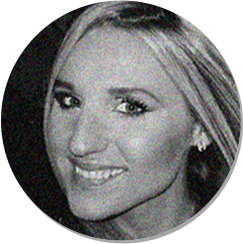
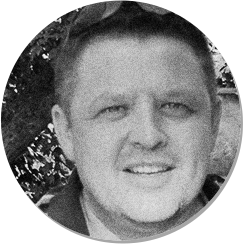
Fixes , New loader stuff, Brian testimonial added.

diff --git a/index.html b/index.html
@@ -344,9 +344,9 @@
                               </div>  
                             </div>
                             <div class="ch-text">
-                              <h3>Dr. Talia Lavie</h3>
-                              <h4><a href="#" class="track_event" data-ga-category="Marketing Website" data-ga-event="Testimonials Site Click" data-ga-label="Fanny May" data-ajax-track="1">www.fannymay.com</a></h4>
-                              <p>Otonomic was created in 2012 by Omri Allouche, who previously founded Zink, social marketing platform that uses unique technology to increase the word of mouth effect on social networks on social networks and Accessorize London.</p>
+                              <h3>Brian O'Callaghan</h3>
+                              <h4><a href="http://www.dublinacupunctureclinic.com/" class="track_event" data-ga-category="Marketing Website" data-ga-event="Testimonials Site Click" data-ga-label="Brian O'Callaghan" data-ajax-track="1">www.dublinacupunctureclinic.com</a></h4>
+                              <p>Otonomic offered me what I need at the time I needed it, a well designed, informative website that I update effortlessly wherever I travel.</p>
                             </div>
                           </div>
                         </div>
@@ -562,7 +562,7 @@
                         <div class="footer-link"><a href="pdfs/Otonomic_Privacy_Policy.pdf" target="_blank" class="track_event" data-ga-category="Marketing Website" data-ga-event="Footer" data-ga-label="PP" data-ajax-track="1">Privacy Policy</a></div>
                         <div class="footer-link"><a href="http://support.otonomic.com" target="_blank" class="track_event" data-ga-category="Marketing Website" data-ga-event="Footer" data-ga-label="FAQ" data-ajax-track="1">FAQ</a></div>
                       </div>
-                      <div class="powered-by">All right reserved to <img src="images/otonomic-logo.png" alt="otonomic logo"></div>
+                      <div class="powered-by">© 2014 <img src="images/otonomic-logo.png" alt="otonomic logo"></div>
                     </div>
                   </section>
               </div>
@@ -623,13 +623,14 @@
   <div class="masking">
        <div class="loading-page">
            <div class="loading-content">
-               <p>We're building <b>your new website</b> now.</p>
+               <p>We're building <strong>your new website</strong> now.</p>
                <p class="loading-counter-text">It will be ready in... <label id='loaderCounter'></label> seconds  </p>
                <span>So don't close this tab</span>
            </div>
            <div class="loading-image" >
-               <img src="images/oto-loading.gif"/>
+               <img src="images/loading/oto-loading.gif"/>
            </div>
+           <div class="fb-like" data-href="http://otonomic.com/" data-width="86" data-layout="button_count" data-action="like" data-show-faces="false" data-share="false"></div>
        </div>
    </div>
 </div>

diff --git a/js/otonomic/search_filterv1.0.2.js b/js/otonomic/search_filterv1.0.2.js
@@ -124,8 +124,8 @@ var redirect_url = '';
 
 $(document).ready(function($){
 
-    $(document).on('click','#how_do_i',function(e){
-        e.preventDefault();
+    $(document).on('click','#how_do_i',function(event){
+        event.preventDefault();
         var $this = $(this);
 
         if($this.hasClass('open')){
@@ -133,7 +133,7 @@ $(document).ready(function($){
         } else {
             openHowDoISteps();
         }
-        return false;
+        //return false;
     });
 
 });
@@ -258,6 +258,7 @@ function closeSearch(targetContainer){
         jQuery('.btn_go').tipsy("hide");
         $(".close-search").hide();
         closeHowDoISteps();
+        $('#main_search_box').focus();
 }
 
 function show_searching_message(){
@@ -301,10 +302,18 @@ function openHowDoISteps(){
 var loaderCounter;
 var interval;
 function counterLoader(counterElementId){
-            loaderCounter = 10;
+            loaderCounter = 8;
             document.getElementById(counterElementId).innerHTML = loaderCounter;
             interval = setInterval(function(){
-                if (loaderCounter <= 0){
+                if (loaderCounter <= 1){
+                    //fade in/out animation 
+                    $(".loading-content").animate({opacity:"0"}, 300,"swing", function() {
+                        $('.loading-content').html('<p>Your new website is <strong>ready</strong>!</p>');
+                        $('.loading-image>img').attr('src','images/loading/v.gif');
+                        $('.loading-page .loading-content p').css('margin','71px 0  34px 0');
+                        $(".loading-content").animate({opacity:"1"}, 300,"swing");
+                    });
+                    // start redirect
                     setTimeout(function(){
                         var ua    = navigator.userAgent.toLowerCase(),
                         isIE      = ua.indexOf('msie') !== -1,
@@ -316,8 +325,11 @@ function counterLoader(counterElementId){
                     }
                     // All other browsers
                     else { window.location.href = redirect_url; }
-                    },500);
+                    },1000);
+
                     clearInterval(interval);
+                    loaderCounter--;
+                    document.getElementById(counterElementId).innerHTML = loaderCounter;
                     return;
                 }
                 loaderCounter--;

diff --git a/js/main.js b/js/main.js
@@ -94,14 +94,26 @@
             });  
           }
 
-          $("#menu-toggle").click(function(e) {
-              e.preventDefault();
+          $("#menu-toggle").click(function(event) {
+              event.preventDefault();
               openCloseMenu();
           });
           $("section").click(function() {
+            //closeSearch('.search-wrapper');
             if ($("#menu-toggle").hasClass('active')) {
               closeMenu();
             }
+          });
+
+          // Close .t_box if click anywhere but the box
+          /*$('section').click(function(){
+              closeSearch('.search-wrapper');
+          });*/
+          
+          $(".search-wrapper").click(function(e) {
+              //e.stopPropagation(); // This is the preferred method.
+              //return false;        // This should not be used unless you do not want
+                                   // any click events registering inside the div
           });
           //<<<<<<<<<< Disable Features-Section Animations
           $('.section-features .feature img').addClass('active');
@@ -206,16 +218,4 @@
               $(this).addClass('mobile-header-placeholder');
             }
           });
-
-          // Close .t_box if click anywhere but the box
-          $('html').click(function(){
-              closeSearch('.search-wrapper');
-          });
-          
-          $(".search-wrapper").click(function(e) {
-              e.stopPropagation(); // This is the preferred method.
-              return false;        // This should not be used unless you do not want
-                                   // any click events registering inside the div
-          });
-          
       });

diff --git a/css/style.css b/css/style.css
@@ -2,7 +2,7 @@
 /* Google Fonts */
 @import url(http://fonts.googleapis.com/css?family=Changa+One);
 @import url(http://fonts.googleapis.com/css?family=Dosis:300,400,500,600,700);
-@import url(http://fonts.googleapis.com/css?family=Exo+2:800,900);
+@import url(http://fonts.googleapis.com/css?family=Exo+2:200,800,900);
 /* Type */
 body{ font-family: 'Dosis', sans-serif;}
 h1,h2,h3,h4,h5 { 
@@ -16,7 +16,9 @@ body{
 	padding-top: 70px;
 	background-color: #222;
 }
-
+b, strong {
+font-weight: 800;
+}
 /* Custom button
 -------------------------------------------------- */
 
@@ -373,7 +375,7 @@ section.features .row{
 .section-reviews-inner{}
 .section-reviews h1{
 	margin-top: 42px;
-	margin-bottom: 108px;
+	margin-bottom: 80px;
 	color: white;
 	font-size: 42px;
 	text-shadow: 2px 2px 0px rgba(0,0,0,0.25);
@@ -478,11 +480,13 @@ section.features .row{
 .ch-item .ch-text{
 	position: absolute;
 	top: 243px;
+	margin: 0 40px;
 }
 
-.ch-item .ch-text h3{ text-align: center;}
+.ch-item .ch-text h3{ text-align: left;}
 .ch-item .ch-text h4{ 
-	text-align: center;
+	text-align: left;
+	margin: 8px 0 10px;
 	opacity: 1; /*make visible  deafult = 0*/
 	-webkit-transition: all 0.4s ease;
 	-moz-transition: all 0.4s ease;
@@ -491,7 +495,6 @@ section.features .row{
 	transition: all 0.4s ease;
 }
 .ch-item .ch-text p{
-	margin: 0 40px; 
 	opacity: 1; /*make visible  deafult = 0*/
 	-webkit-transition: all 0.4s ease;
 	-moz-transition: all 0.4s ease;
@@ -501,7 +504,7 @@ section.features .row{
 }
 .ch-item .ch-text > h4 > a{
 	color:#000;
-	padding: 5px;
+	padding: 0;
 	text-decoration: none;
 }
 .ch-item .ch-text > h4 > a:hover{

diff --git a/css/loadingStyle.css b/css/loadingStyle.css
@@ -1,6 +1,8 @@
 .loading-box {
     display: none;
     opacity: 0;
+    font-family: 'Exo 2', sans-serif;
+    font-weight: 200;
 }
 
 .masking{
@@ -24,12 +26,12 @@
 
 .loading-page .loading-content p{
     color: #ffffff;
-    font-size: 36px;
+    font-size: 35px;
     margin: 10px 0px;
 }
 
 .loading-page .loading-content span{
-    font-size: 36px;
+    font-size: 35px;;
 }
 
 .loading-page .loading-content span{
@@ -39,7 +41,7 @@
 
 .loading-image{
     background:#000000;
-    opacity: 0.7;
+    opacity: 1;
     width: 450px;
     height: 220px;
     margin: 15px auto;

diff --git a/js/otonomic/otonomicv1.0.4.js b/js/otonomic/otonomicv1.0.4.js
@@ -3,8 +3,8 @@
     var nextpageURL = 'http://www.page2site.com/shared/facebook_fanpages.php';
     var debug_enabled = 0;
 
-     var connect_path = '/shared/';
- var reference_time = new Date().getTime();
+    var connect_path = '/shared/';
+    var reference_time = new Date().getTime();
     var user_facebook_id;
     var fanpage_permissions = 'manage_pages,email,offline_access';
     var personal_permissions = 'user_location,user_about_me,user_photos,user_events,user_videos';

diff --git a/css/searchResults.css b/css/searchResults.css
@@ -131,6 +131,9 @@
     display: none;
     color: #666161;
     font-size: 20px;
+    margin-top: -8px;
+    margin-right: -8px;
+    padding: 17px 20px 15px 22px;
 }
 .p2s_fanpages .close-search:hover{
     color: #f54500;
@@ -139,6 +142,7 @@
 .p2s_fanpages span.icon_clear{
     position: absolute;
     right: 0;
+    margin: 0;
     padding-right: 13px;
     padding:11px 10px 10px 9px;
     top: -48px;
